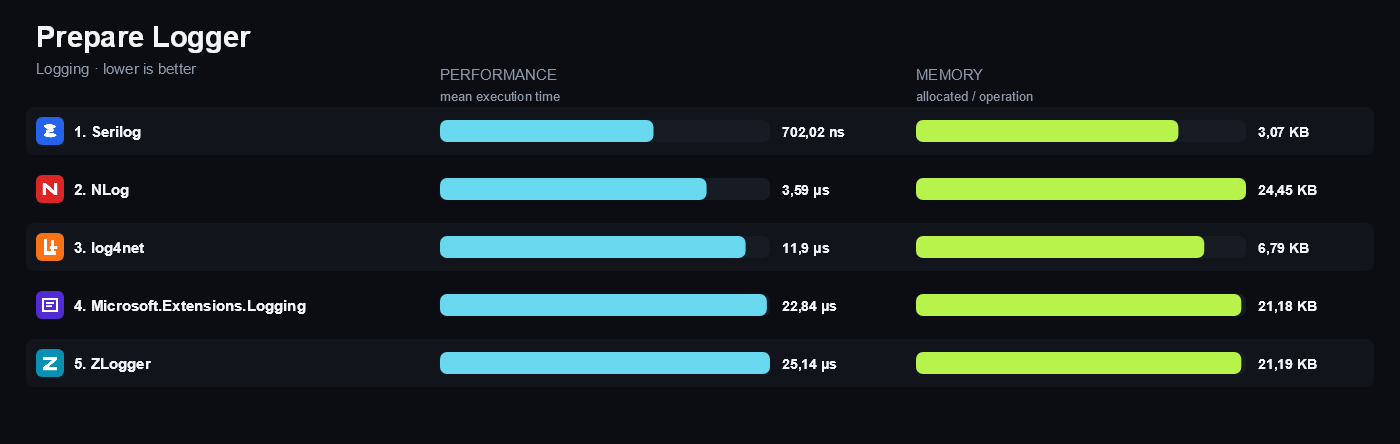
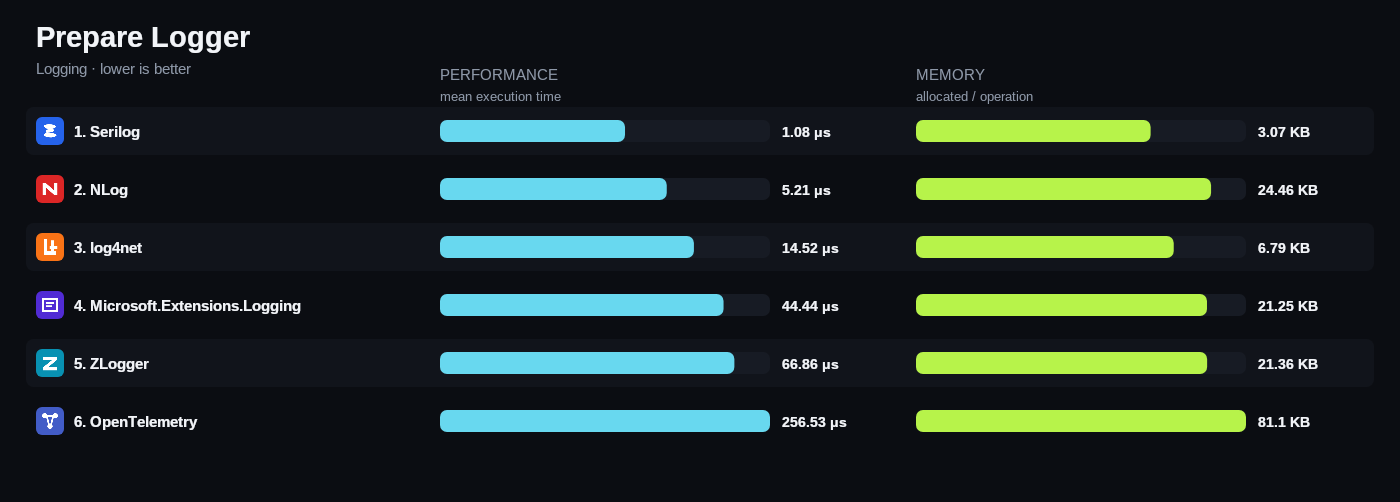
Close four documentation loose ends in Logging
- workflows/feature-contracts/logging.md documented features 1-8 only; add
  section 9, Formatted Output, from the [MatrixFeature] and [FeatureUnavailable]
  attributes on 09_FormattedOutput.cs and the assertions in LoggingChecks.
- Feature 8 was named PrepareLogger by id, benchmark class and chart group, but
  displayed as "Create Logger". Rename the display name to Prepare Logger so all
  four agree, and drop the orphaned 08-create-logger.png chart.
- readme/art_overview/{en,ru}_overview.md listed 6 categories, 40 libraries and
  67 scenarios; LINQ Queries and ZIP Archives were missing entirely and four row
  counts were stale. Rebuild both tables from reports/*/features.json: 8
  categories, 53 libraries, 99 scenarios. Validation's leader is now
  Microsoft.Extensions.Validation, not DataAnnotations.

diff --git a/src/Matrix.Logging/Benchmarks/Common/08_PrepareLogger.cs b/src/Matrix.Logging/Benchmarks/Common/08_PrepareLogger.cs
@@ -6,6 +6,6 @@ namespace Matrix.Logging.Benchmarks;
 [MatrixFeature(
     "PrepareLogger",
     8,
-    "Create Logger",
+    "Prepare Logger",
     "Creates, verifies, and releases one Information-enabled logger with an in-memory sink.")]
 public partial class PrepareLogger;

diff --git a/README.md b/README.md
@@ -1626,7 +1626,7 @@ rating above. The same breakdown appears as a hint on any points value in the
 | Scope Or Context | 71.75 ns | 71.75 ns | 100 | 120 B | 120 B | 100 |
 | Template Rendering | 35.27 ns | 35.27 ns | 100 | 0 B | 0 B | 100 |
 | Buffered Logging | — | 93.36 ns | 0 | — | 0 B | 0 |
-| Create Logger | 44.44 μs | 1.08 μs | 15.6 | 21.25 KB | 3.07 KB | 38.1 |
+| Prepare Logger | 44.44 μs | 1.08 μs | 15.6 | 21.25 KB | 3.07 KB | 38.1 |
 | Formatted Output | — | 222.72 ns | 0 | — | 0 B | 0 |
 
 #### 2. NLog — 1143 of 1800
@@ -1640,7 +1640,7 @@ rating above. The same breakdown appears as a hint on any points value in the
 | Scope Or Context | 92.22 ns | 71.75 ns | 88.3 | 248 B | 120 B | 72.8 |
 | Template Rendering | 84.18 ns | 35.27 ns | 65.3 | 232 B | 0 B | 30.6 |
 | Buffered Logging | 93.36 ns | 93.36 ns | 100 | 120 B | 0 B | 40.8 |
-| Create Logger | 5.21 μs | 1.08 μs | 45.5 | 24.46 KB | 3.07 KB | 35.6 |
+| Prepare Logger | 5.21 μs | 1.08 μs | 45.5 | 24.46 KB | 3.07 KB | 35.6 |
 | Formatted Output | 222.72 ns | 222.72 ns | 100 | 272 B | 0 B | 28.5 |
 
 #### 3. Serilog — 983 of 1800
@@ -1654,7 +1654,7 @@ rating above. The same breakdown appears as a hint on any points value in the
 | Scope Or Context | 238.47 ns | 71.75 ns | 55.1 | 544 B | 120 B | 50.4 |
 | Template Rendering | 213.07 ns | 35.27 ns | 41.2 | 432 B | 0 B | 22.9 |
 | Buffered Logging | 395.4 ns | 93.36 ns | 48.8 | 160 B | 0 B | 36.1 |
-| Create Logger | 1.08 μs | 1.08 μs | 100 | 3.07 KB | 3.07 KB | 100 |
+| Prepare Logger | 1.08 μs | 1.08 μs | 100 | 3.07 KB | 3.07 KB | 100 |
 | Formatted Output | 417.86 ns | 222.72 ns | 73.1 | 296 B | 0 B | 27.4 |
 
 #### 4. log4net — 833 of 1800
@@ -1668,7 +1668,7 @@ rating above. The same breakdown appears as a hint on any points value in the
 | Scope Or Context | 343.96 ns | 71.75 ns | 45.9 | 848 B | 120 B | 40.6 |
 | Template Rendering | 135.52 ns | 35.27 ns | 51.5 | 280 B | 0 B | 28.1 |
 | Buffered Logging | 516.38 ns | 93.36 ns | 42.7 | 848 B | 0 B | 16.6 |
-| Create Logger | 14.52 μs | 1.08 μs | 27.2 | 6.79 KB | 3.07 KB | 67.4 |
+| Prepare Logger | 14.52 μs | 1.08 μs | 27.2 | 6.79 KB | 3.07 KB | 67.4 |
 | Formatted Output | 252.91 ns | 222.72 ns | 93.9 | 217 B | 0 B | 31.6 |
 
 #### 5. OpenTelemetry — 818 of 1800
@@ -1682,7 +1682,7 @@ rating above. The same breakdown appears as a hint on any points value in the
 | Scope Or Context | 185.52 ns | 71.75 ns | 62.5 | 168 B | 120 B | 86.6 |
 | Template Rendering | 282 ns | 35.27 ns | 35.8 | 112 B | 0 B | 42 |
 | Buffered Logging | 198.24 ns | 93.36 ns | 68.8 | 48 B | 0 B | 57.7 |
-| Create Logger | 256.53 μs | 1.08 μs | 6.483 | 81.1 KB | 3.07 KB | 19.5 |
+| Prepare Logger | 256.53 μs | 1.08 μs | 6.483 | 81.1 KB | 3.07 KB | 19.5 |
 | Formatted Output | — | 222.72 ns | 0 | — | 0 B | 0 |
 
 #### 6. ZLogger — 559 of 1800
@@ -1696,7 +1696,7 @@ rating above. The same breakdown appears as a hint on any points value in the
 | Scope Or Context | — | 71.75 ns | 0 | — | 120 B | 0 |
 | Template Rendering | — | 35.27 ns | 0 | — | 0 B | 0 |
 | Buffered Logging | 124.11 ns | 93.36 ns | 86.8 | 0 B | 0 B | 100 |
-| Create Logger | 66.86 μs | 1.08 μs | 12.7 | 21.36 KB | 3.07 KB | 38 |
+| Prepare Logger | 66.86 μs | 1.08 μs | 12.7 | 21.36 KB | 3.07 KB | 38 |
 | Formatted Output | 381.63 ns | 222.72 ns | 76.5 | 0 B | 0 B | 100 |
 
 </details>
@@ -1803,11 +1803,11 @@ Enqueues one event to a library-provided async or buffering wrapper and validate
 
 ![Logging Buffered Logging benchmark](reports/Logging/charts/07-buffered-logging.png)
 
-#### 08 · Create Logger
+#### 08 · Prepare Logger
 
 Creates, verifies, and releases one Information-enabled logger with an in-memory sink.
 
-![Logging Create Logger benchmark](reports/Logging/charts/08-create-logger.png)
+![Logging Prepare Logger benchmark](reports/Logging/charts/08-prepare-logger.png)
 
 #### 09 · Formatted Output
 

diff --git a/readme/art_overview/ru_overview.md b/readme/art_overview/ru_overview.md
@@ -9,7 +9,7 @@
 - Интерактивная матрица: [matrix.dev-team.org](https://matrix.dev-team.org/)
 - Репозиторий: [github.com/DevTeam/dotnet-matrix](https://github.com/DevTeam/dotnet-matrix) (MIT)
 
-Сейчас в матрице **6 категорий, 40 библиотек и 67 сценариев**.
+Сейчас в матрице **8 категорий, 53 библиотеки и 99 сценариев**.
 
 Статья рассчитана на .NET-разработчиков, которым:
 
@@ -84,16 +84,18 @@
 
 | Категория | Лидер рейтинга | Библиотек | Сценариев |
 |---|---|---:|---:|
-| CSV Processing | Sep | 3 | 10 |
+| CSV Processing | Sep | 4 | 10 |
 | Dependency Injection | Pure.DI | 23 | 15 |
 | JSON Serialization | System.Text.Json | 3 | 14 |
-| Logging | Microsoft.Extensions.Logging | 5 | 8 |
+| LINQ Queries | ZLinq | 6 | 18 |
+| Logging | Microsoft.Extensions.Logging | 6 | 9 |
 | Object Mapping | Mapperly | 4 | 10 |
-| Validation | DataAnnotations | 3 | 10 |
+| Validation | Microsoft.Extensions.Validation | 4 | 10 |
+| ZIP Archives | SharpZipLib | 3 | 13 |
 
 Цифры статистики намеренно не приводятся: они привязаны к версиям пакетов и к окружению, в котором проходили тесты, и быстро устареют. Актуальные числа, графики и матрицу возможностей смотрите в приложении: [matrix.dev-team.org](https://matrix.dev-team.org/).
 
-Отдельно стоит сказать про **эталонные реализации** (baseline). В нескольких категориях помимо библиотек участвует «нулевой вариант»: `HandCoded` — код, написанный руками, в Dependency Injection и Object Mapping; `System.Text.Json`, `DataAnnotations` и `Microsoft.Extensions.Logging` — то, что уже есть в платформе. Это довольно полезный показатель, он отвечает на вопрос, **сколько вы «платите» за библиотеку**, и стоит ли её использовать. И иногда ответ неожиданный: в Validation и JSON Serialization рейтинг сейчас возглавляют именно платформенные варианты — `DataAnnotations` и `System.Text.Json`.
+Отдельно стоит сказать про **эталонные реализации** (baseline). В нескольких категориях помимо библиотек участвует «нулевой вариант»: `HandCoded` — код, написанный руками, в Dependency Injection, LINQ Queries и Object Mapping; `System.Linq`, `System.Text.Json`, `DataAnnotations`, `System.IO.Compression` и `Microsoft.Extensions.Logging` — то, что уже есть в платформе. Это довольно полезный показатель, он отвечает на вопрос, **сколько вы «платите» за библиотеку**, и стоит ли её использовать. И иногда ответ неожиданный: в Validation и JSON Serialization рейтинг сейчас возглавляют именно платформенные варианты — `Microsoft.Extensions.Validation` и `System.Text.Json`.
 
 ---
 

diff --git a/readme/art_overview/en_overview.md b/readme/art_overview/en_overview.md
@@ -9,7 +9,7 @@ The principle behind the project is *Evidence, not faith*.
 - Interactive matrix: [matrix.dev-team.org](https://matrix.dev-team.org/)
 - Repository: [github.com/DevTeam/dotnet-matrix](https://github.com/DevTeam/dotnet-matrix) (MIT)
 
-The matrix currently holds **6 categories, 40 libraries and 67 scenarios**.
+The matrix currently holds **8 categories, 53 libraries and 99 scenarios**.
 
 This article is for .NET developers who:
 
@@ -84,16 +84,18 @@ Results add up into an overall rating: scenarios are collected into groups (for 
 
 | Category | Rating leader | Libraries | Scenarios |
 |---|---|---:|---:|
-| CSV Processing | Sep | 3 | 10 |
+| CSV Processing | Sep | 4 | 10 |
 | Dependency Injection | Pure.DI | 23 | 15 |
 | JSON Serialization | System.Text.Json | 3 | 14 |
-| Logging | Microsoft.Extensions.Logging | 5 | 8 |
+| LINQ Queries | ZLinq | 6 | 18 |
+| Logging | Microsoft.Extensions.Logging | 6 | 9 |
 | Object Mapping | Mapperly | 4 | 10 |
-| Validation | DataAnnotations | 3 | 10 |
+| Validation | Microsoft.Extensions.Validation | 4 | 10 |
+| ZIP Archives | SharpZipLib | 3 | 13 |
 
 The measured numbers are deliberately left out of this article: they are tied to specific package versions and to the environment the tests ran in, and they go stale quickly. For current figures, charts and the feature matrix, use the application: [matrix.dev-team.org](https://matrix.dev-team.org/).
 
-The **baselines** deserve a separate word. Several categories include a "zero option" alongside the libraries: `HandCoded` — code written by hand — in Dependency Injection and Object Mapping, and `System.Text.Json`, `DataAnnotations` and `Microsoft.Extensions.Logging`, which the platform already ships. It is a genuinely useful data point, because it answers the question of **how much you are paying for the library** and whether it is worth taking at all. And sometimes the answer is a surprise: in Validation and JSON Serialization the rating is currently led by the platform options — `DataAnnotations` and `System.Text.Json`.
+The **baselines** deserve a separate word. Several categories include a "zero option" alongside the libraries: `HandCoded` — code written by hand — in Dependency Injection, LINQ Queries and Object Mapping, and `System.Linq`, `System.Text.Json`, `DataAnnotations`, `System.IO.Compression` and `Microsoft.Extensions.Logging`, which the platform already ships. It is a genuinely useful data point, because it answers the question of **how much you are paying for the library** and whether it is worth taking at all. And sometimes the answer is a surprise: in Validation and JSON Serialization the rating is currently led by the platform options — `Microsoft.Extensions.Validation` and `System.Text.Json`.
 
 ---
 

diff --git a/workflows/feature-contracts/logging.md b/workflows/feature-contracts/logging.md
@@ -104,7 +104,7 @@ Application category is `Matrix.Logging`.
 - Rating: feature-only because enqueue completion is not equivalent to
   synchronous sink delivery.
 
-## 8. Create Logger
+## 8. Prepare Logger
 
 - Operation: construct a logger configuration with one in-memory sink and
   Information minimum level, obtain the named logger, verify it is enabled,
@@ -116,6 +116,24 @@ Application category is `Matrix.Logging`.
 - Supported: a complete usable logger is created and released inside one
   invocation.
 - Rating: `prepare`.
+
+## 9. Formatted Output
+
+- Operation: submit the Information message `Formatted event` through the
+  library's own output formatter into a bounded in-memory sink.
+- Inside invocation: event creation, layout/template formatting, and
+  synchronous delivery of the formatted text or UTF-8 bytes to the sink.
+- Outside invocation: setup builds the formatter with a library-appropriate
+  timestamp/level/logger/message layout; cleanup validates all three
+  validation invocations.
+- Validation: the sink has received three formatted records and the last one
+  ends with `Formatted event`.
+- Supported: the library defines a text output formatter that the matrix can
+  drive synchronously; matrix-owned formatting is not support.
+- Unsupported: the library defines no comparable output formatter. This is
+  the case for Microsoft.Extensions.Logging, whose core package ships none,
+  and for OpenTelemetry, which exports log records instead.
+- Rating: `structured`.
 
 ## Availability meanings
 
